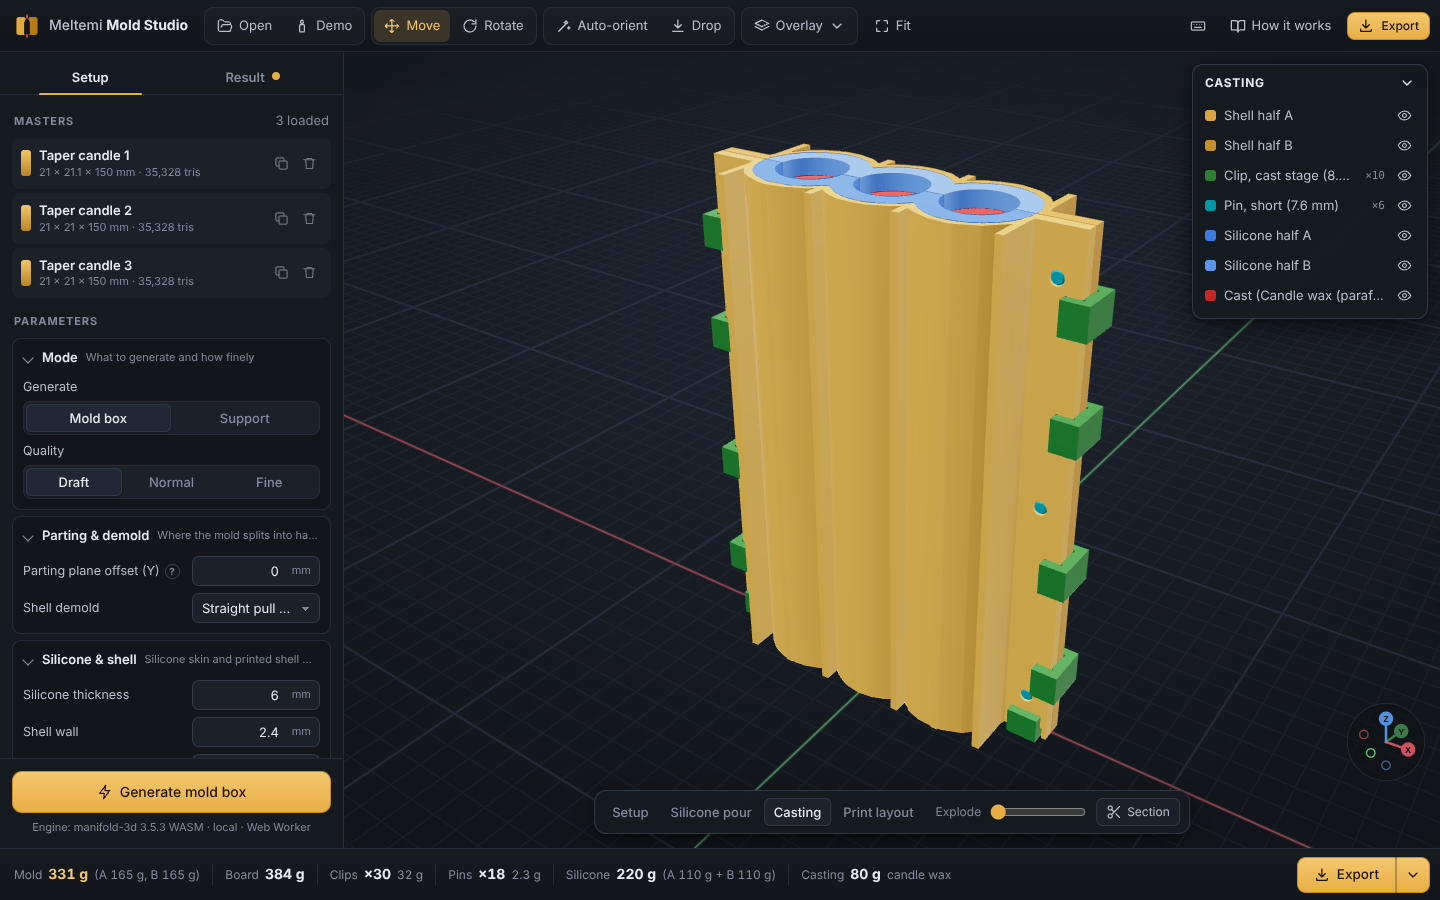
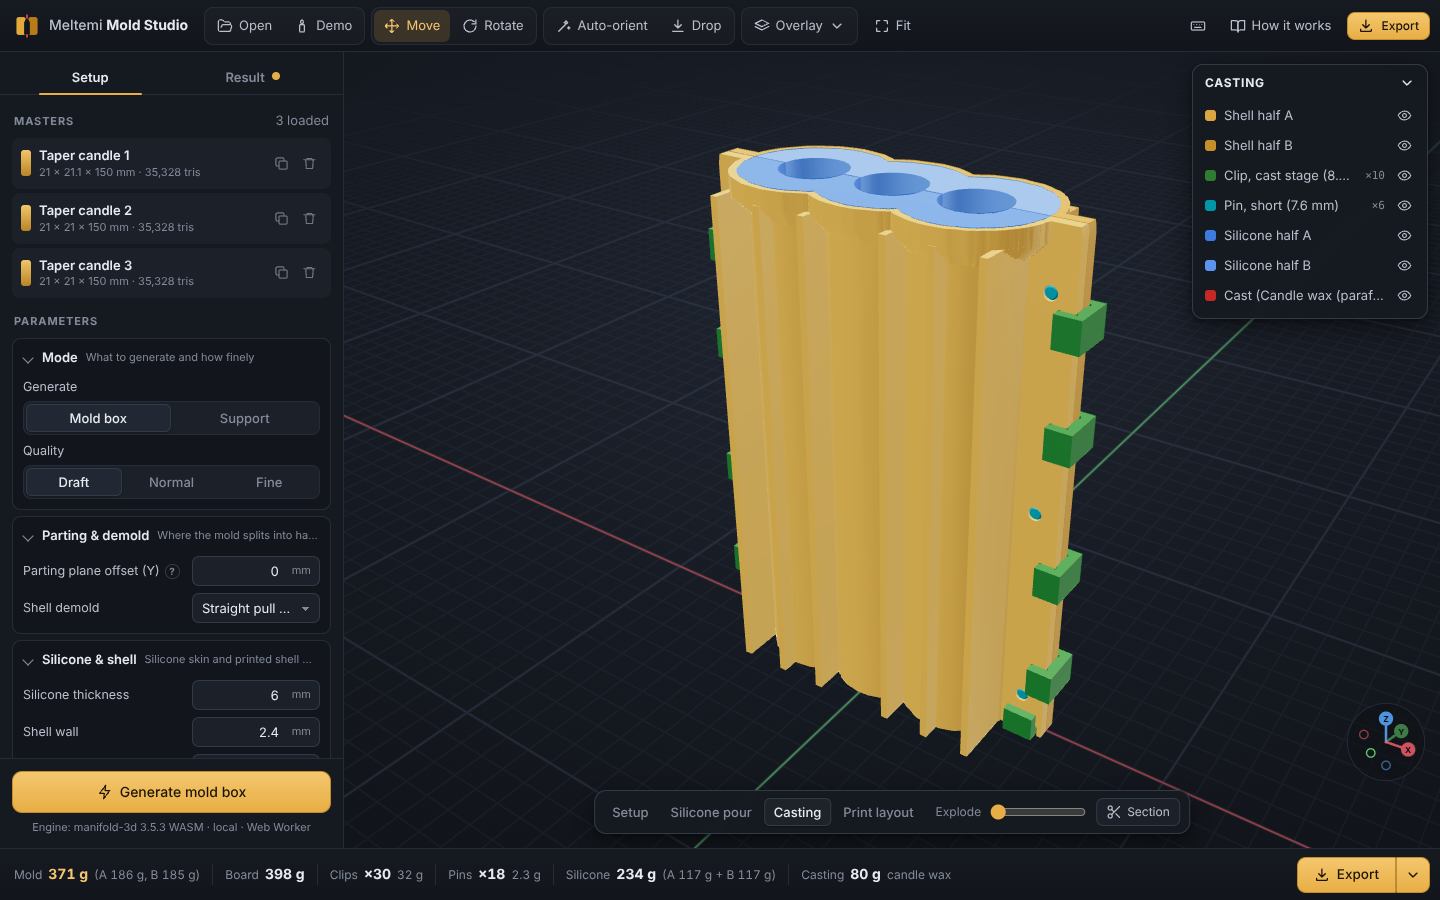
Collar: back the collar pocket with the flange/board for any flange size
With a narrow flange, a tall collar or a wide overhang the rounded flange corner receded
above the rim and left the collar pocket open at the parting plane (whole lip leaked,
e.g. flangeWidth 8 / collarOverhang 10). The collar outline is now computed before the
flange geometry and its dam footprint on the plane is added to the flange outline.
Regression test covers single and double boards. README screenshots show the collar.

Claude-Session: https://claude.ai/code/session_013kicrp2LhKyAkaTDMgHmeQ

diff --git a/src/core/features/flanges.js b/src/core/features/flanges.js
@@ -136,6 +136,19 @@ export function buildFlangeGeometry(ctx) {
   // the flange plate also closes the collar pocket at the parting plane (up to zPour)
   const zClip = rect2(-BIG, zFloor, BIG, Math.max(zTop, ctx.zPour ?? zTop));
   let F = hullO.offset(f, 'Round', 2, 64).intersect(zClip);
+  // The collar pocket and its dam must be backed by the plate / board at the parting plane. The
+  // rounded flange corner recedes above zTop (by f - sqrt(f² - h²) at the collar top), so with a
+  // narrow flange, a tall collar or a wide overhang the pocket would be open there: add the dam's
+  // footprint on the plane (+2 mm) to the flange outline (a no-op when F already covers it).
+  if (ctx.collar2D && ctx.zPour > zTop) {
+    const wd = Number(P.wallThickness) || 0;
+    const strip = ctx.collar2D.collar.offset(wd, 'Round', 2, 64)
+      .intersect(CrossSection.square([2 * BIG, 0.02]).translate([-BIG, y0 - 0.01]));
+    if (!strip.isEmpty()) {
+      const b = strip.bounds();
+      F = F.add(rect2(b.min[0] - 2, zTop - 1, b.max[0] + 2, ctx.zPour));
+    }
+  }
 
   // obstacles on the plane: silicone faces and the cast cavity (wick rods below the floor)
   let obst = null;

diff --git a/src/core/pipeline.js b/src/core/pipeline.js
@@ -248,13 +248,14 @@ async function run(inputs, P, onProgress, opts, mode) {
       yBackA: null, yBackB: null,
     };
     await step('Flanges, pins & clips', 0.62, () => {
+      // collar outline first: the flange plate must back the collar pocket and its dam at the plane
+      ctx.collar2D = zPour > zTop ? collarOutline2D(ctx) : null;
       const fl = buildFlangeGeometry(ctx);
       warnings.push(...fl.warnings);
       Object.assign(ctx, { outline2D: fl.outline2D, flange2D: fl.flange2D, pinSites: fl.pinSites, clipSites: fl.clipSites });
       ctx.shellA = own(applyFlange(sh.shellA, ctx, 'A'));
       ctx.shellB = own(applyFlange(sh.shellB, ctx, 'B'));
       // collar dam + 45° ledge (before the back planes are measured: the dam may stick out)
-      ctx.collar2D = zPour > zTop ? collarOutline2D(ctx) : null;
       if (ctx.collar2D) {
         ctx.collarVoid = own(collarVoid(ctx));
         for (const side of ['A', 'B']) {
